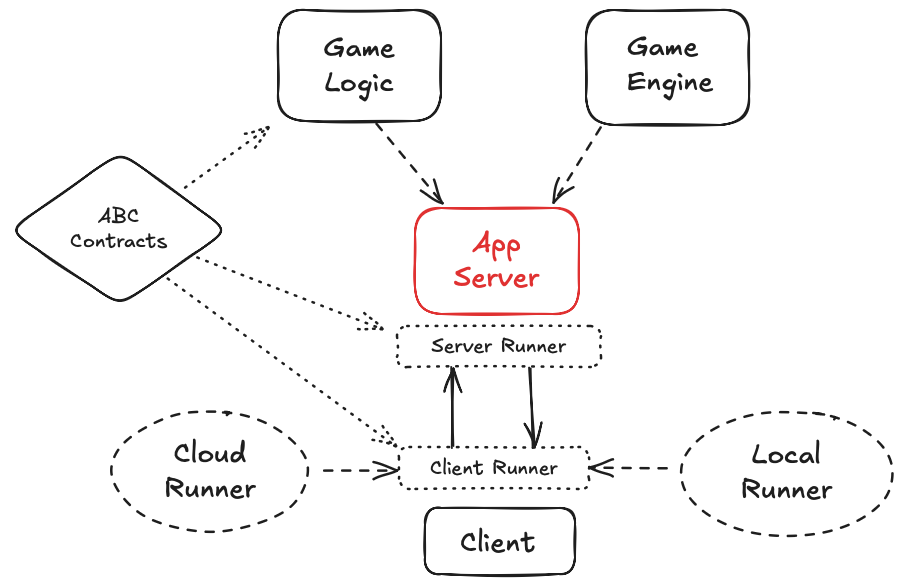
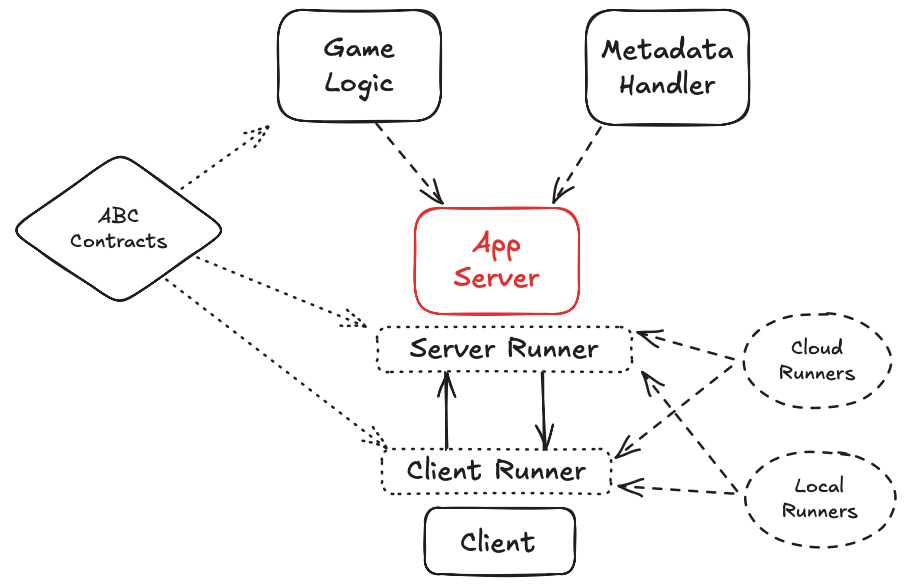
update readme

diff --git a/README.md b/README.md
@@ -4,9 +4,9 @@
 
 Other repos in this project:
 
-[Game Framework - Runners](https://github.com/threnjen/game-framework-runners)
-[Game Framework - Engine](https://github.com/threnjen/game-framework-engine)
-[Game Framework - App Server](https://github.com/threnjen/game-framework-app-server)
-[Game Framework - Contracts](https://github.com/threnjen/game-framework-contracts)
-[Sample Game UI](https://github.com/threnjen/sample-game-ui)
-[Sample Game Logic](https://github.com/threnjen/sample-game-logic)
+- [Game Framework - Runners](https://github.com/threnjen/game-framework-runners)
+- [Game Framework - Metadata Handler](https://github.com/threnjen/game-framework-metadata-handler)
+- [Game Framework - App Server](https://github.com/threnjen/game-framework-app-server)
+- [Game Framework - Contracts](https://github.com/threnjen/game-framework-contracts)
+- [Sample Game UI](https://github.com/threnjen/sample-game-ui)
+- [Sample Game Logic](https://github.com/threnjen/sample-game-logic)
